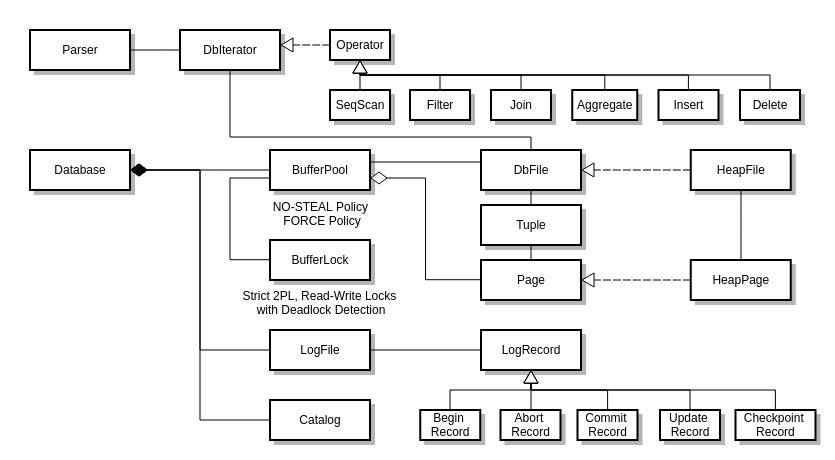
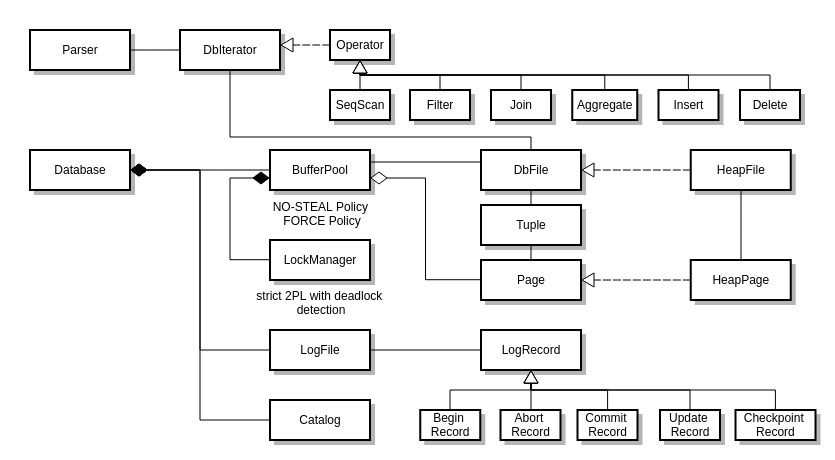
rename a module

Changed region(s): [[0.2802, 0.6087, 0.4671, 0.7], [0.3425, 0.5478, 0.4359, 0.5783], [0.2802, 0.3652, 0.3425, 0.3957]]

diff --git a/src/simpledb/BufferPool.java b/src/simpledb/BufferPool.java
@@ -23,7 +23,7 @@ public class BufferPool {
     constructor instead. */
     public static final int DEFAULT_PAGES = 50;
     private final Page[] buffer;
-    public final BufferLock lock;
+    public final LockManager lock;
     private int evictIdx = 0;
     
     /**
@@ -34,7 +34,7 @@ public class BufferPool {
     public BufferPool(int numPages) {
         // Done
     	buffer = new Page[numPages];
-    	lock = new BufferLock(numPages);
+    	lock = new LockManager(numPages);
     }
     
     public static int getPageSize() {
@@ -250,7 +250,7 @@ public class BufferPool {
 
     /** Write all pages of the specified transaction to disk.
      */
-    public synchronized  void flushPages(TransactionId tid) throws IOException {
+    public synchronized void flushPages(TransactionId tid) throws IOException {
         // Done
     	for (int i=0; i<buffer.length; i++) {
     		if (null != buffer[i] && lock.holdsLock(tid, i)) {

diff --git a/src/simpledb/LockManager.java b/src/simpledb/LockManager.java
@@ -11,7 +11,7 @@ import java.util.concurrent.atomic.AtomicInteger;
 import java.util.concurrent.*;
 
 
-class BufferLock {
+class LockManager {
 	
 	private static final TransactionId NIL_TID = new TransactionId();
 	private static final Random rand = new Random();
@@ -21,7 +21,7 @@ class BufferLock {
 	private final Semaphore[] waits, mutexes, writeMutexes;
 	private final AtomicInteger[] readCnts;
 	
-	public BufferLock(int numPages) {
+	public LockManager(int numPages) {
 		readers = new ConcurrentHashMap<Integer,Set<TransactionId>>();
 		writers = new ConcurrentHashMap<Integer,TransactionId>();
 		waits = new Semaphore[numPages];
